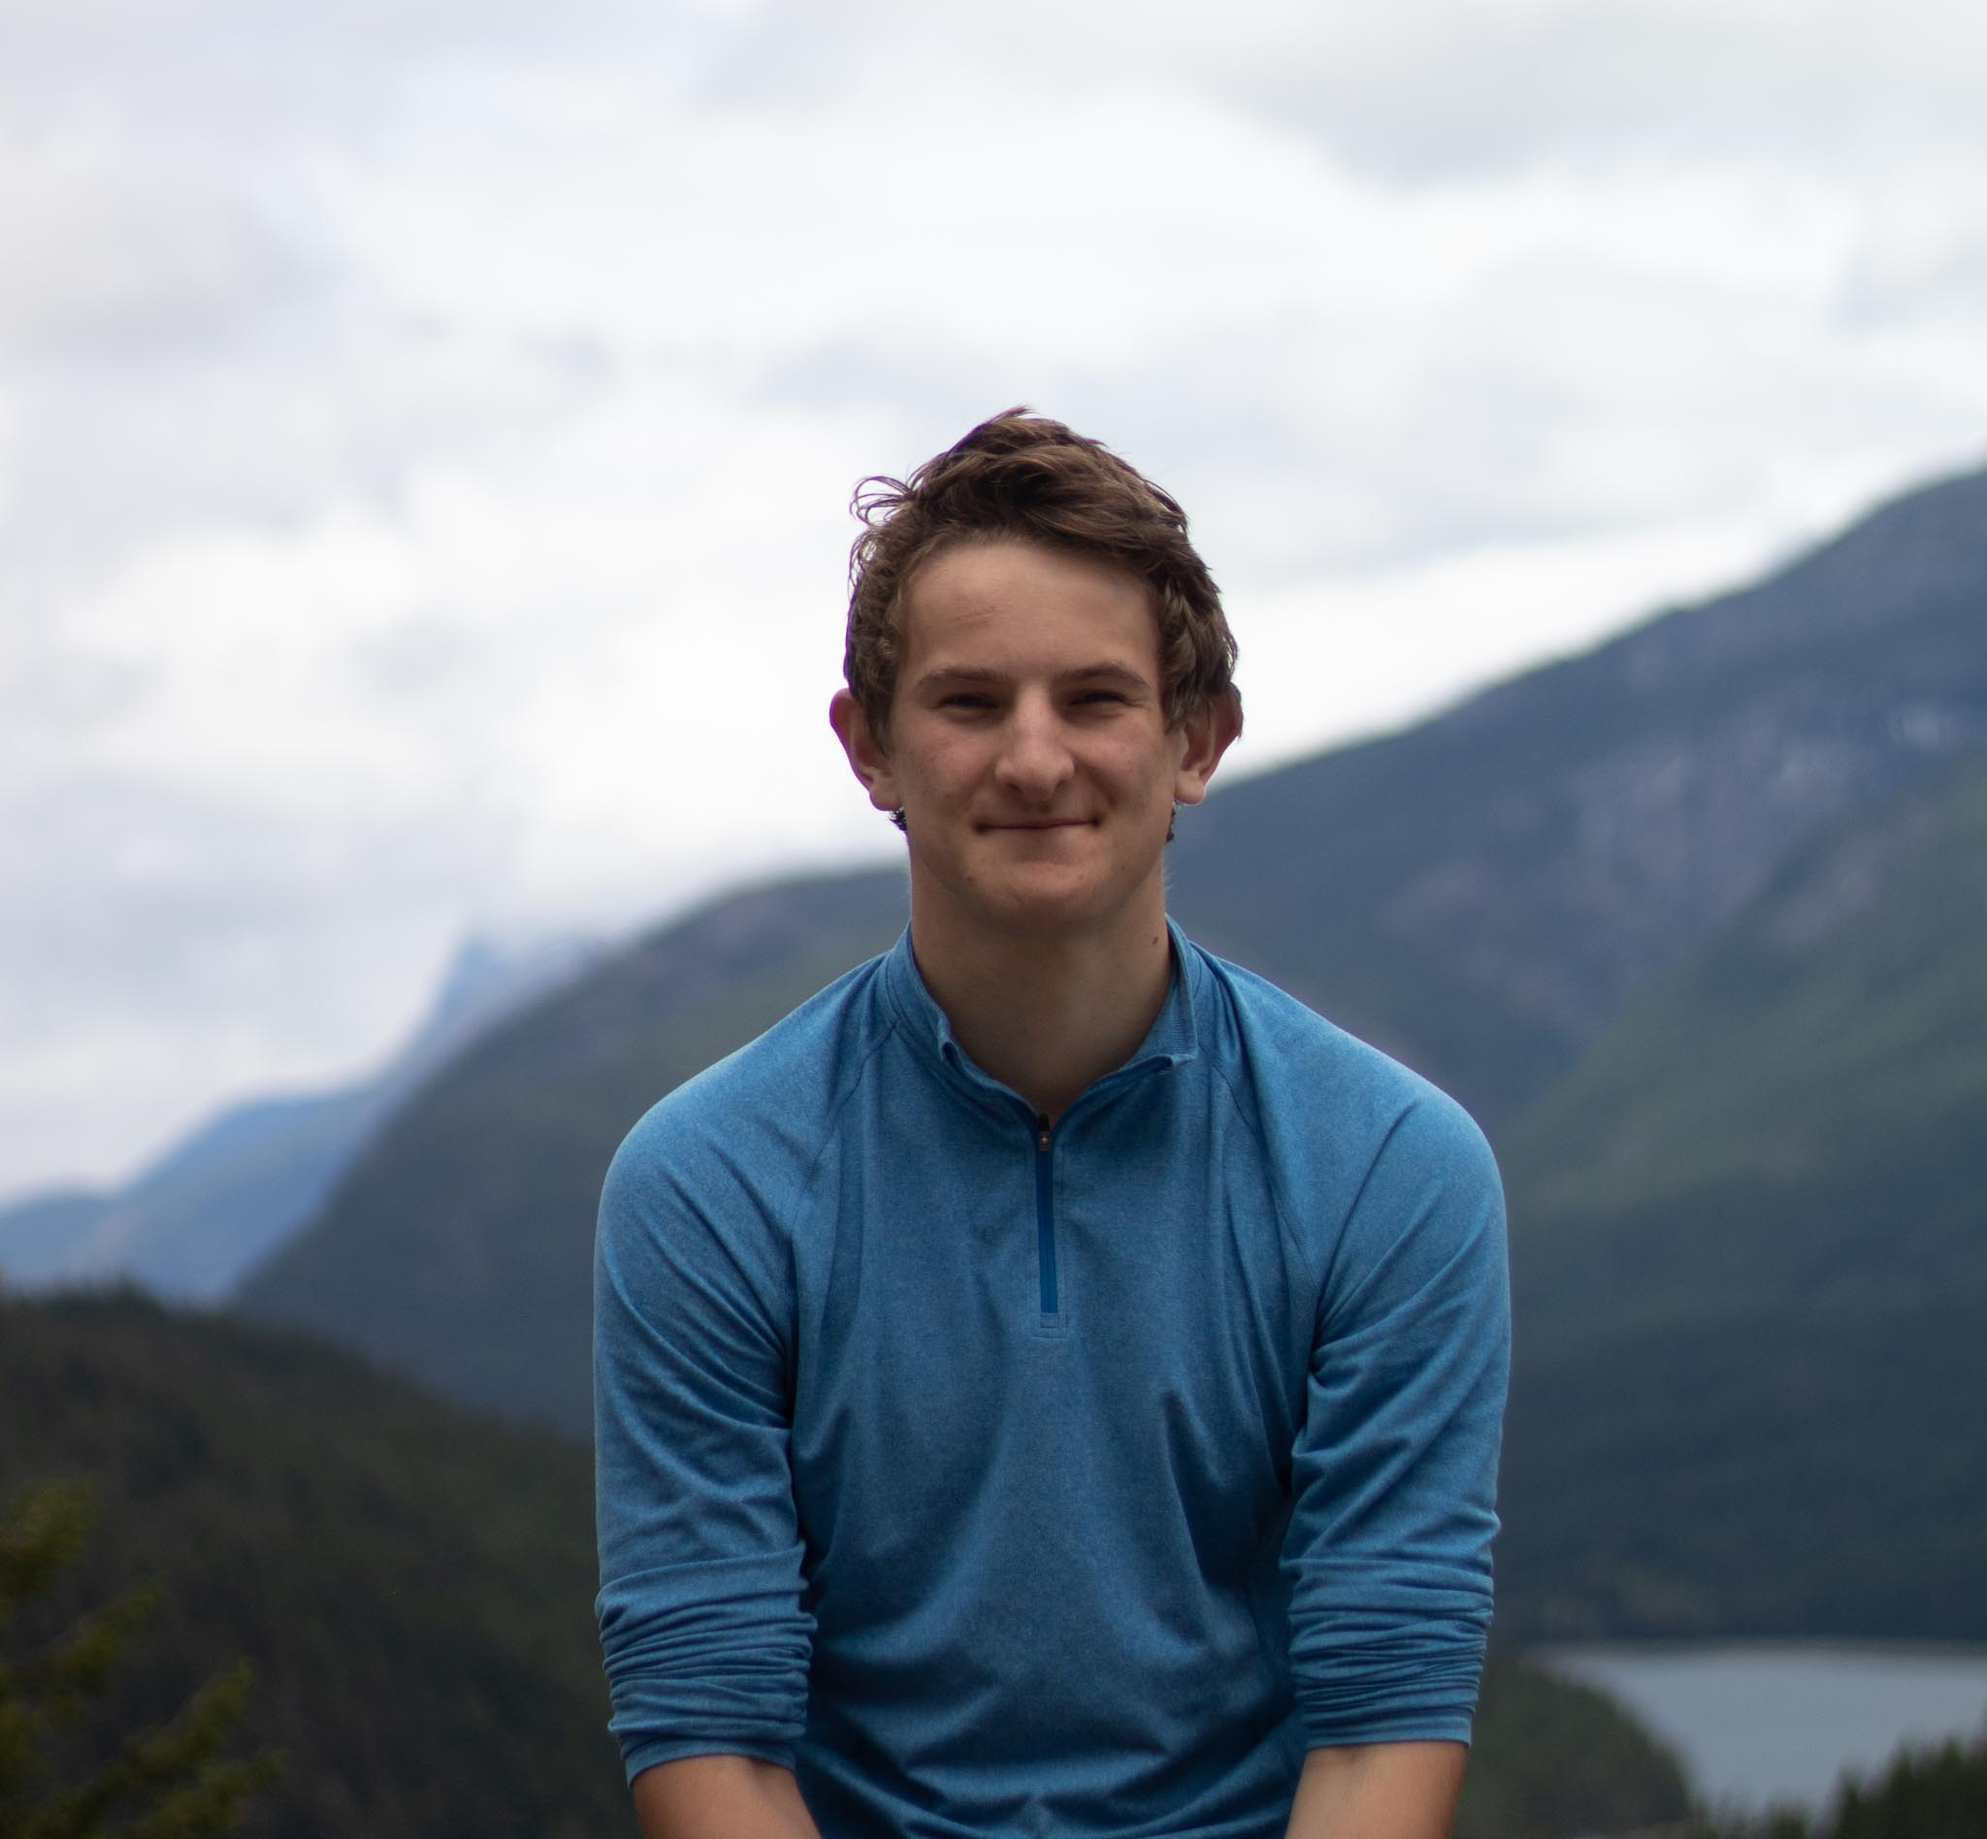
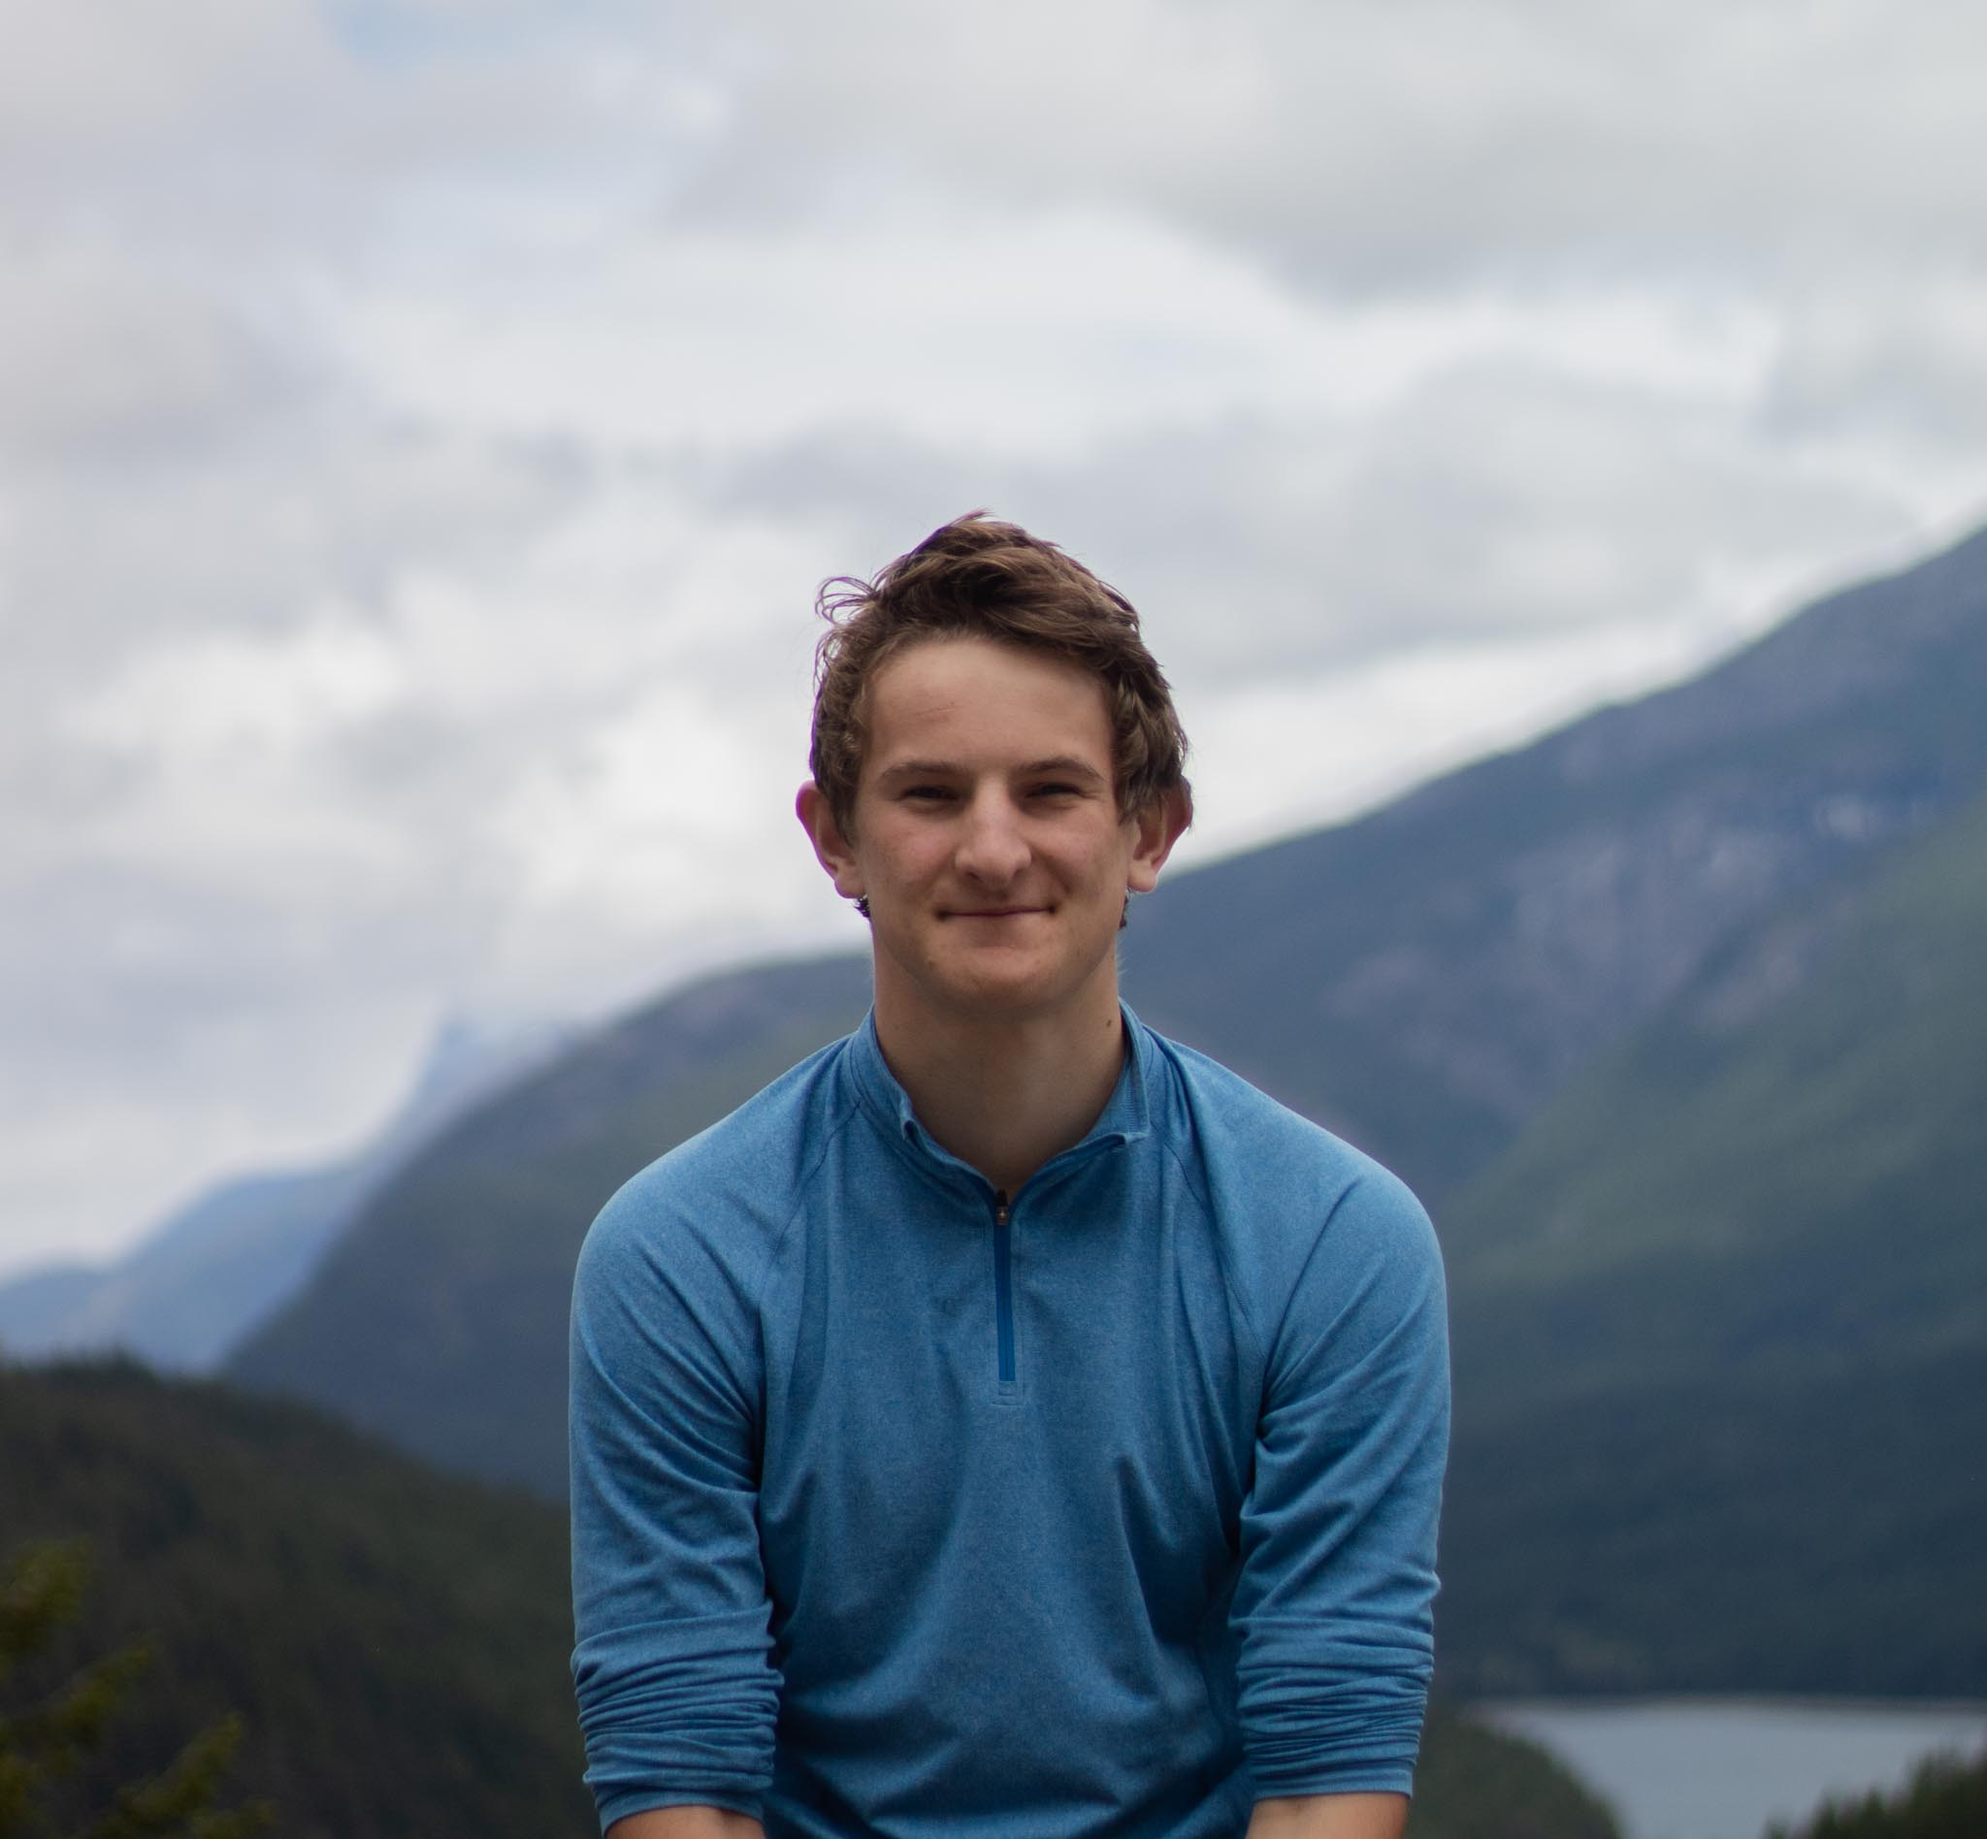
New main page photo

diff --git a/src/ToDo/NewItem/NewItem.js b/src/ToDo/NewItem/NewItem.js
@@ -68,7 +68,7 @@ export default function NewItem() {
     <>
       <div class="m-auto bg-main_bg_color text-text_white">
         <Header />
-        <div class="mb-[4vh]"></div>
+        <div class="h-[6vh]"></div>
         <div class="w-[75%] m-auto flex flex-col justify-center gap-[2.75vh]">
           <div class="w-full flex flex-col gap-[2.3vh] text-[1.75rem] min-laptop_height:text-[1.5rem] leading-none">
             <input class="h-[4.75vh] px-[.75vw] py-[.5vh] w-full text-accent_text_color focus:shadow-none focus:outline-none" ref={todoNameRef} type="text" placeholder='Title' />

diff --git a/src/partials/Footer.js b/src/partials/Footer.js
@@ -18,6 +18,7 @@ export default function Footer() {
                 <div class="m-auto w-fit text-[1.25rem]">
                     <h3 class="">Grant Conklin | pdxgrantc@gmail.com | 2022</h3>
                 </div>
+                <div class="mb-[8vh]"></div>
             </div>
         </>
     )
